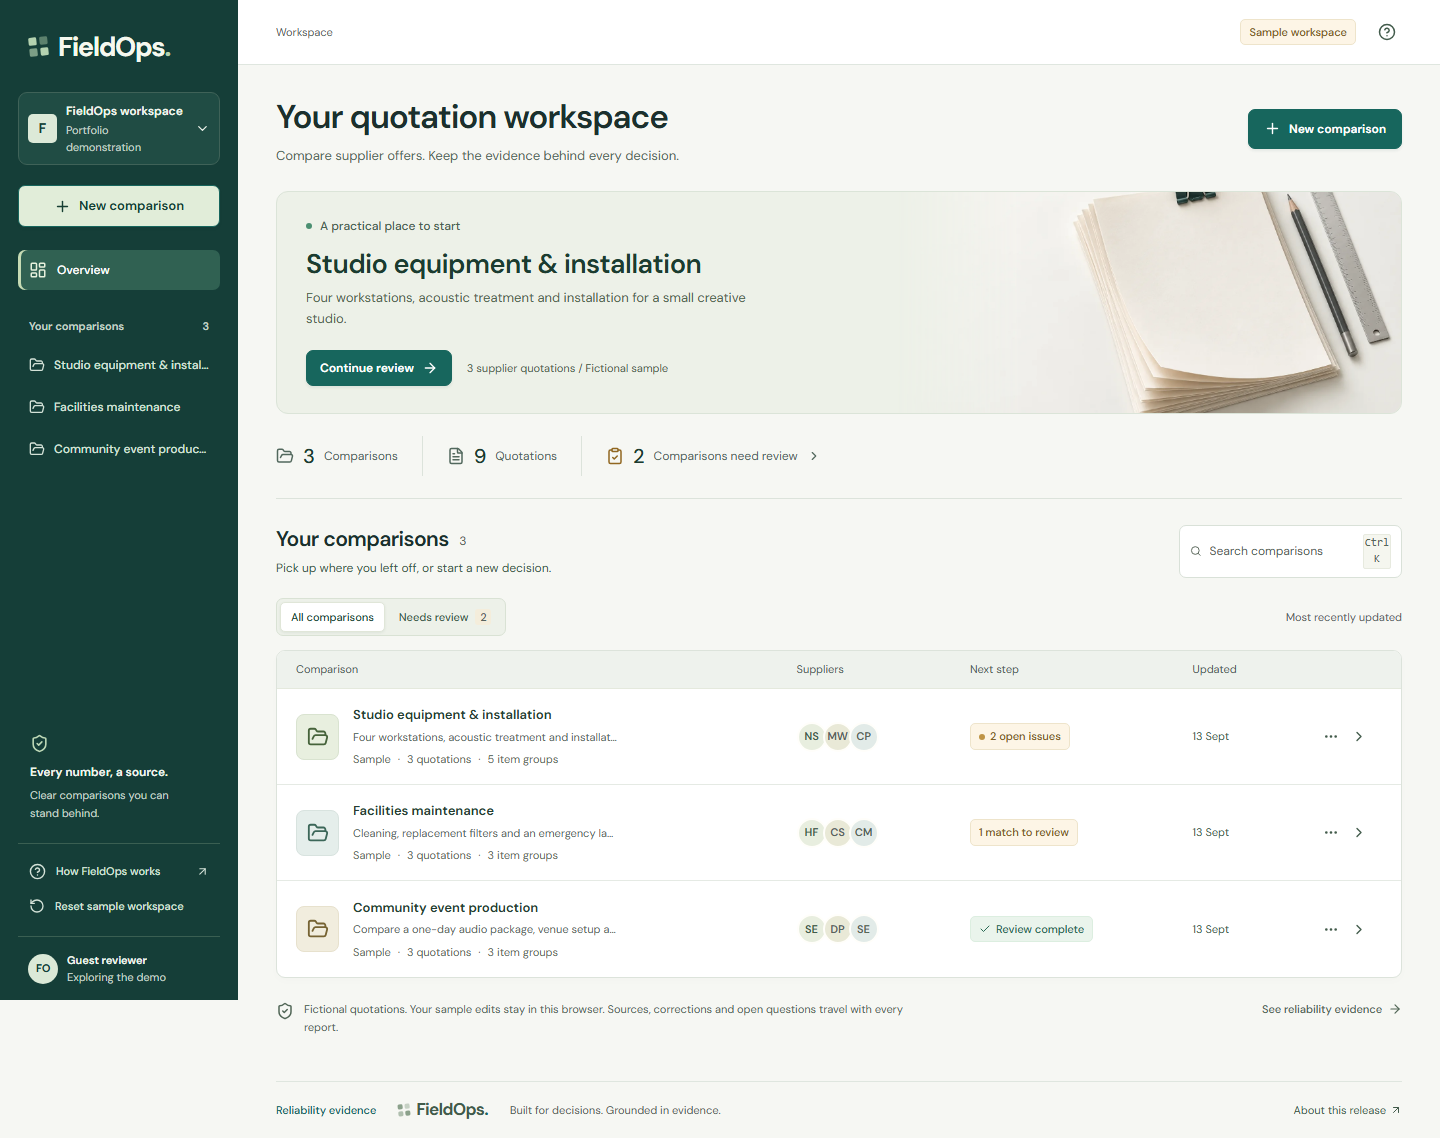
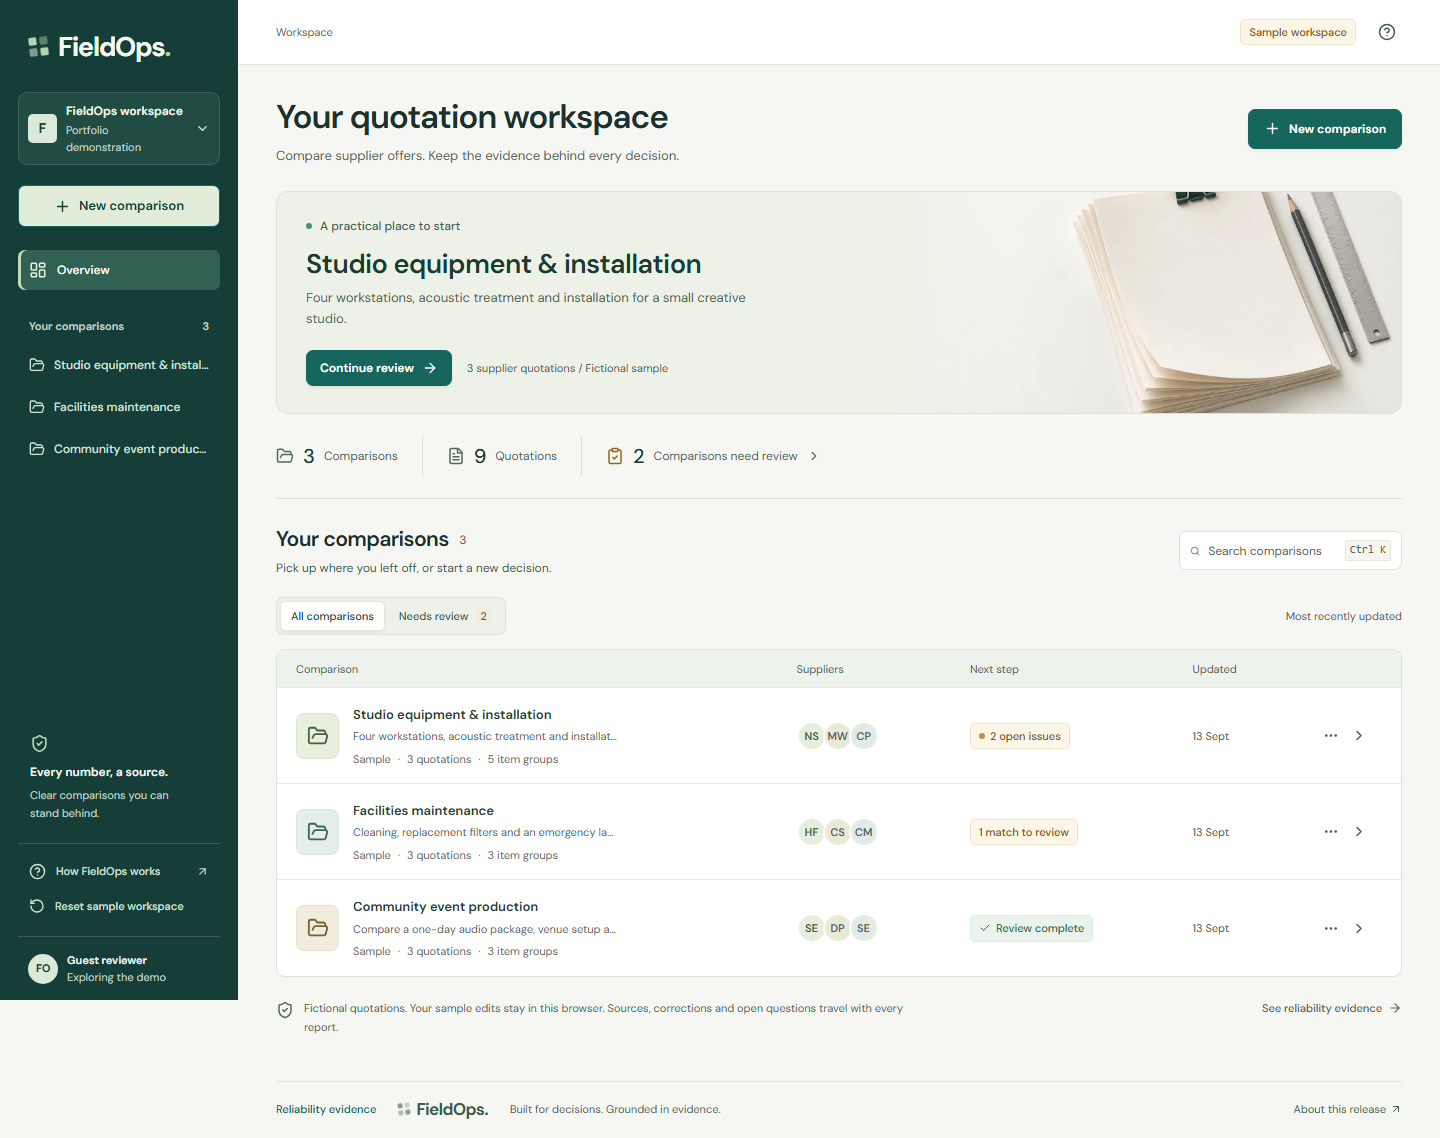
Record UI deployment and public browser verification

diff --git a/tests/e2e/README.md b/tests/e2e/README.md
@@ -24,6 +24,6 @@ Screenshots, a rendered decision PDF, axe JSON attachments and failure traces ar
 
 These tests do not establish deployed Supabase/Trigger integration, real authentication-provider behaviour, production OCR capacity, or live AI quality. Those need configured hosted services and the separately controlled live evaluation protocol.
 
-Last verified on 13 September 2026 against the local Next development server with AI disabled: **6/6 browser tests passed** in 43.6 seconds; axe reported zero violations in the four tested states. Separate parser, workbook and demo-source suites passed **24/24 tests** (18 parser/adapter, four workbook, two source invariants). The browser run fixed and retested insufficient text contrast, an unfocusable source scroll area, lost dialog return focus, loopback request normalization, and the source-only quotation's incomplete state. These are scoped local test results, not deployed reliability or model-quality measurements.
+The initial release was verified on 13 September 2026 against the local Next development server with AI disabled: **6/6 browser tests passed** in 43.6 seconds; axe reported zero violations in the four tested states. Separate parser, workbook and demo-source suites passed **24/24 tests** (18 parser/adapter, four workbook, two source invariants). The browser run fixed and retested insufficient text contrast, an unfocusable source scroll area, lost dialog return focus, loopback request normalization, and the source-only quotation's incomplete state. These are scoped local test results, not deployed reliability or model-quality measurements.
 
-The subsequent UI refinement was verified against the local **production build** with AI disabled: **7/7 browser tests passed in 27.7 seconds**. The added `refinements.spec.ts` checks Ctrl/Cmd+K search (and no unmodified character shortcut), clear/filter recovery, accessible next-step labels, deep links to the quotation with issues, actual discrepancy evidence, missing-source behavior, correction evidence, unmatched filters and keeping keyboard focus visible on mobile. All existing upload, export, keyboard and axe checks passed again. Current UI screenshots in `docs/images/*-v2.png` come from this production-build run using only fictional sample data.
+The subsequent UI refinement was verified against the local **production build** with AI disabled: **7/7 browser tests passed in 27.7 seconds**. The added `refinements.spec.ts` checks Ctrl/Cmd+K search (and no unmodified character shortcut), clear/filter recovery, accessible next-step labels, deep links to the quotation with issues, actual discrepancy evidence, missing-source behavior, correction evidence, unmatched filters and keeping keyboard focus visible on mobile. All existing upload, export, keyboard and axe checks passed again. The final public deployment passed **5/5 browser tests in 25.9 seconds**, excluding the two private local-upload tests. Current UI screenshots in `docs/images/*-v2.png` come from that public run using only fictional sample data.

diff --git a/docs/release-verification.md b/docs/release-verification.md
@@ -8,7 +8,15 @@ Verified on 13 September 2026. This release delivers the public fixture demonstr
 - [Independent source repository](https://github.com/Chi944/fieldops), complete [requirements](spec.md), [implementation plan](implementation-plan.md) and [acceptance status](acceptance-status.md).
 - [Local setup](setup.md), five Supabase migrations, [deployment instructions](deployment.md), [architecture](architecture.md), [retention behavior](security-and-retention.md), [case study](case-study.md) and [three-minute demonstration script](demo-script.md).
 
-## Checks and evidence
+## UI refinement verification
+
+Source revision **`486ef98`** passed [clean Linux CI](https://github.com/Chi944/fieldops/actions/runs/34714827733): runtime dependency audit, OCR setup, TypeScript, lint, **95 unit/integration tests**, production build and **all seven browser workflows**. The local production-build browser run passed 7/7 in 27.7 seconds. The new test covers review guidance, visible source evidence, accessible next-step labels, search/filter recovery, unmatched offers and mobile focus visibility.
+
+Vercel deployment `dpl_EtS4ErNWBDNyJjm53EgjqBVxgZe2` is READY at the canonical public URL. **5/5 public browser tests passed in 25.9 seconds**, including the new guidance test and the existing export, matching, keyboard and axe checks. The two real-upload tests remain local-only. The published decorative WebP is 36,228 bytes and matches the source hash recorded in [image provenance](image-assets.md). Public `/api/status` still reports demo mode with persistence, uploads and extraction disabled.
+
+The updated [workspace](images/workspace-v2.png), [review](images/review-v2.png) and [comparison](images/comparison-v2.png) screenshots use only fictional samples and were captured from that public deployment. A documentation-only follow-up records these results. The [private-pilot plan](next-release.md) identifies the remaining hosted and AI gates; this UI release does not change their unverified status. Parser/model/calculation code and the offline evaluation fingerprint are unchanged, so the existing measured report remains applicable within its stated limits.
+
+## Original release checks and evidence
 
 | Check | Result and boundary |
 | --- | --- |

diff --git a/docs/progress.md b/docs/progress.md
@@ -55,3 +55,9 @@
 - Independent review caught mobile navigation scrolling the focused field out of view, visible next-step labels missing from accessible names, and an unmodified character shortcut. Fixed all three and added browser regression assertions. Final local production build, TypeScript and lint pass; **95/95 unit/integration tests and 7/7 browser tests pass**, with the final browser run taking 27.7 seconds.
 - Recorded [the next release](next-release.md): configure and test dedicated hosted Supabase/Auth/Storage/Trigger, separate parser-only cloud uploads from AI readiness, add storage admission/cleanup/operational recovery, validate shared resource limits, and evaluate live AI only after the user configures it. Keep Supabase for this release; Neon Auth and Storage are now beta alternatives but migrating would require reworking and retesting the implemented access boundary.
 - Public refresh and clean Linux verification follow this source commit. No model extraction was enabled, provider project provisioned, private document published or existing project modified.
+
+## UI deployment verified
+
+- UI source `486ef98` passed [clean Linux CI](https://github.com/Chi944/fieldops/actions/runs/34714827733), including runtime audit, OCR setup, type/lint checks, 95 unit/integration tests, build and all seven browser workflows.
+- Vercel deployment `dpl_EtS4ErNWBDNyJjm53EgjqBVxgZe2` is READY at [FieldOps](https://fieldops-eight-blue.vercel.app). Five public browser tests passed in 25.9 seconds. Captured fresh public sample screenshots for the README and release record.
+- Verified the deployed image matches its recorded SHA-256 and public capabilities still disable uploads, private persistence and AI. No credentials or hosted private services were added. The remaining operational work is documented precisely in [next release](next-release.md).

diff --git a/docs/next-release.md b/docs/next-release.md
@@ -6,7 +6,7 @@ Keep **Supabase Free + Trigger.dev Free + the existing Vercel Hobby deployment**
 
 ## What works, and what still blocks live operation
 
-The public [FieldOps demonstration](https://fieldops-eight-blue.vercel.app) is deployed. Its sample quotations are labeled fixtures. Actual local parsing, source review, manual entry, matching, corrections, persistence and exports work with AI disabled. The recorded release passed 95 unit/integration tests, six local browser workflows and four public browser workflows; see [release verification](release-verification.md) and [acceptance status](acceptance-status.md).
+The public [FieldOps demonstration](https://fieldops-eight-blue.vercel.app) is deployed. Its sample quotations are labeled fixtures. Actual local parsing, source review, manual entry, matching, corrections, persistence and exports work with AI disabled. The UI refinement passed 95 unit/integration tests, seven local browser workflows and five public browser workflows; see [release verification](release-verification.md) and [acceptance status](acceptance-status.md).
 
 | Gap | Evidence in the current repository | Practical consequence |
 | --- | --- | --- |
